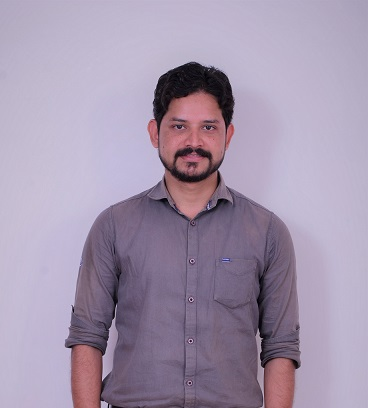
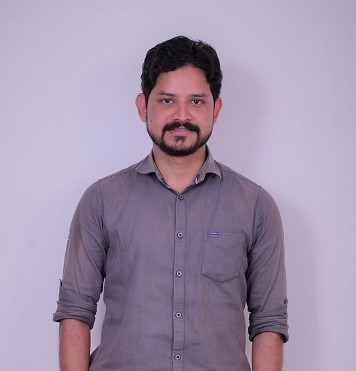
suraj and vishal image edited

diff --git a/team-final.html b/team-final.html
@@ -336,7 +336,7 @@
 					<div class = "team-container">
 						<div class="image-container">
 							<div style = "background-image:url(images/team/suraj-1@.jpg);" class = "background-image"></div>
-							<div style = "background-image:url(images/team/suraj-2@.jpg);" class = "background-image hover"></div>
+							<div style = "background-image:url(images/team/surajedit-2.jpg);" class = "background-image hover"></div>
 						</div>
 						<div class = "service-section-content service-content-row4 back-white white-shadow">
 							 <div class="team-name primary-back text-center"><h3 class="team-name-head white-color font-size-16">Suraj Kumar
@@ -384,7 +384,7 @@
 					<div class = "team-container">
 						<div class="image-container">
 							<div style = "background-image:url(images/team/vishal-1@.jpg);" class = "background-image"></div>
-							<div style = "background-image:url(images/team/vishal-2@.jpg);" class = "background-image hover"></div>
+							<div style = "background-image:url(images/team/vishaledit-2.jpg);" class = "background-image hover"></div>
 						</div>
 						<div class = "service-section-content service-content-row4 back-white white-shadow">
 							 <div class="team-name primary-back text-center"><h3 class="team-name-head white-color font-size-16">Vishal Banerjee
